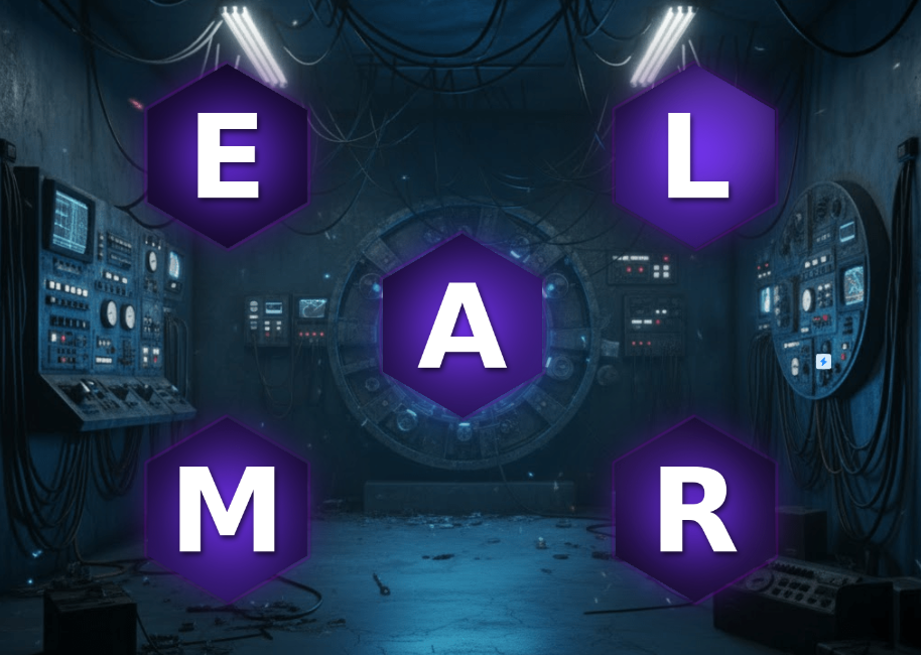
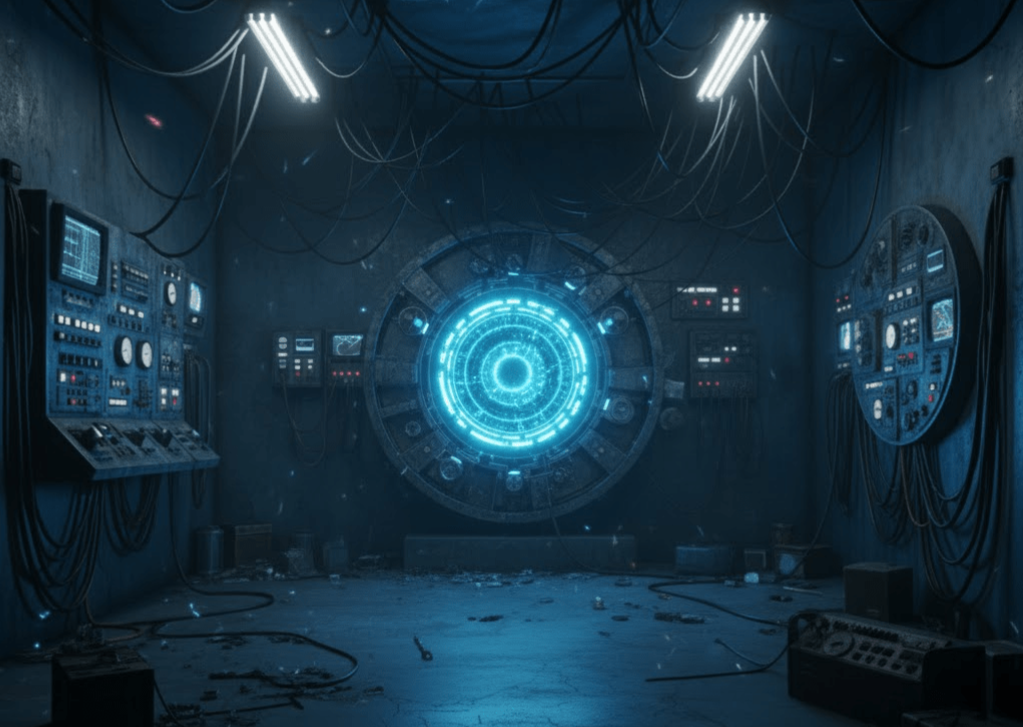
Finished final puzzle room #162

diff --git a/escaperoom/src/main/java/controllers/FinalPuzzleController.java b/escaperoom/src/main/java/controllers/FinalPuzzleController.java
@@ -2,52 +2,176 @@ package controllers;
 
 import javafx.animation.FadeTransition;
 import javafx.fxml.FXML;
+import javafx.scene.image.Image;
 import javafx.scene.image.ImageView;
 import javafx.scene.input.MouseEvent;
 import javafx.scene.layout.AnchorPane;
 import javafx.scene.text.TextFlow;
+import javafx.scene.control.Label;
+import javafx.scene.text.Font;
 import javafx.util.Duration;
+import java.util.HashMap;
+import java.util.Map;
 
 public class FinalPuzzleController {
 
+    @FXML private ImageView bgImage;
     @FXML private ImageView FPHintIcon;
     @FXML private AnchorPane hintPane;
     @FXML private TextFlow hintBottomFlow;
 
+    @FXML private ImageView UnclickedR;
+    @FXML private ImageView UnclickedE;
+    @FXML private ImageView UnclickedA;
+    @FXML private ImageView UnclickedL;
+    @FXML private ImageView UnclickedM;
+
+    @FXML private ImageView RealmImage;
+
+    @FXML private AnchorPane monitorPane;
+    @FXML private Label missionLabel;
+    @FXML private ImageView exitButton;
+
+    private final String[] order = {"UnclickedR","UnclickedE","UnclickedA","UnclickedL","UnclickedM"};
+    private int index = 0;
+
+    private final Map<String,String> clickedMap = new HashMap<>();
+    private final Map<String,String> unclickedMap = new HashMap<>();
+
     @FXML
     private void initialize() {
-        javafx.scene.text.Font.loadFont(getClass().getResourceAsStream("/fonts/Storm Gust.ttf"), 36);
-        if (hintPane != null) hintPane.setVisible(false);
-        if (hintBottomFlow != null) {
-            hintBottomFlow.setVisible(false);
-            hintBottomFlow.setOpacity(0.0);
+
+        Font.loadFont(getClass().getResourceAsStream("/fonts/Storm Gust.ttf"), 42);
+
+        clickedMap.put("UnclickedR","/images/ClickedR.png");
+        clickedMap.put("UnclickedE","/images/ClickedE.png");
+        clickedMap.put("UnclickedA","/images/ClickedA.png");
+        clickedMap.put("UnclickedL","/images/ClickedL.png");
+        clickedMap.put("UnclickedM","/images/ClickedM.png");
+
+        unclickedMap.put("UnclickedR","/images/UnclickedR.png");
+        unclickedMap.put("UnclickedE","/images/UnclickedE.png");
+        unclickedMap.put("UnclickedA","/images/UnclickedA.png");
+        unclickedMap.put("UnclickedL","/images/UnclickedL.png");
+        unclickedMap.put("UnclickedM","/images/UnclickedM.png");
+
+        hintBottomFlow.setVisible(false);
+        hintBottomFlow.setOpacity(0.0);
+
+        monitorPane.setVisible(false);
+        monitorPane.setManaged(false);
+
+        RealmImage.setVisible(false);
+
+        AnchorPane parent = (AnchorPane) bgImage.getParent();
+        bgImage.fitWidthProperty().bind(parent.widthProperty());
+        bgImage.fitHeightProperty().bind(parent.heightProperty());
+        bgImage.setPreserveRatio(false);
+    }
+
+    @FXML
+    private void onLetterClicked(MouseEvent event) {
+        ImageView iv = (ImageView) event.getSource();
+        String id = iv.getId();
+
+        if (order[index].equals(id)) {
+            iv.setImage(new Image(getClass().getResourceAsStream(clickedMap.get(id))));
+            iv.setDisable(true);
+            index++;
+            if (index == order.length)
+                onComplete();
+            return;
         }
-        if (FPHintIcon != null) FPHintIcon.setFocusTraversable(false);
+        resetAll();
+    }
+
+    private void resetAll() {
+        setImage(UnclickedR, unclickedMap.get("UnclickedR"));
+        setImage(UnclickedE, unclickedMap.get("UnclickedE"));
+        setImage(UnclickedA, unclickedMap.get("UnclickedA"));
+        setImage(UnclickedL, unclickedMap.get("UnclickedL"));
+        setImage(UnclickedM, unclickedMap.get("UnclickedM"));
+
+        UnclickedR.setDisable(false);
+        UnclickedE.setDisable(false);
+        UnclickedA.setDisable(false);
+        UnclickedL.setDisable(false);
+        UnclickedM.setDisable(false);
+
+        monitorPane.setVisible(false);
+        monitorPane.setManaged(false);
+        monitorPane.setOpacity(1.0);
+
+        RealmImage.setVisible(false);
+
+        index = 0;
+    }
+
+    private void setImage(ImageView iv, String path) {
+        iv.setImage(new Image(getClass().getResourceAsStream(path)));
+    }
+
+    private void onComplete() {
+        RealmImage.setVisible(true);
+    }
+
+    @FXML
+    private void onRealmClicked(MouseEvent event) {
+        AnchorPane parent = (AnchorPane) monitorPane.getParent();
+        double parentH = parent.getHeight();
+        double paneH = monitorPane.getPrefHeight() > 0 ? monitorPane.getPrefHeight() : 700.0;
+        double finalY = (parentH - paneH) / 2.0;
+
+        monitorPane.setManaged(false);
+        monitorPane.setVisible(true);
+        monitorPane.setLayoutY(finalY);
+        monitorPane.setOpacity(0.0);
+
+        FadeTransition paneFade = new FadeTransition(Duration.millis(600), monitorPane);
+        paneFade.setFromValue(0.0);
+        paneFade.setToValue(1.0);
+        paneFade.setOnFinished(e -> monitorPane.setManaged(true));
+        paneFade.play();
+
+        missionLabel.setOpacity(0.0);
+        FadeTransition ft = new FadeTransition(Duration.millis(700), missionLabel);
+        ft.setFromValue(0.0);
+        ft.setToValue(1.0);
+        ft.setDelay(Duration.millis(200));
+        ft.play();
+    }
+
+    @FXML
+    private void hideMonitor(MouseEvent event) {
+        FadeTransition paneFade = new FadeTransition(Duration.millis(400), monitorPane);
+        paneFade.setFromValue(monitorPane.getOpacity());
+        paneFade.setToValue(0.0);
+        paneFade.setOnFinished(e -> {
+            monitorPane.setVisible(false);
+            monitorPane.setManaged(false);
+            monitorPane.setOpacity(1.0);
+        });
+        paneFade.play();
     }
 
     @FXML
     private void showHint(MouseEvent event) {
-        if (FPHintIcon != null) FPHintIcon.setVisible(false);
-        if (hintPane != null) hintPane.setVisible(false);
-        if (hintBottomFlow != null) {
-            hintBottomFlow.setOpacity(0.0);
-            hintBottomFlow.setVisible(true);
-            FadeTransition ft = new FadeTransition(Duration.millis(450), hintBottomFlow);
-            ft.setFromValue(0.0);
-            ft.setToValue(1.0);
-            ft.play();
-        }
+        hintBottomFlow.setOpacity(0.0);
+        hintBottomFlow.setVisible(true);
+        FadeTransition ft = new FadeTransition(Duration.millis(450), hintBottomFlow);
+        ft.setFromValue(0.0);
+        ft.setToValue(1.0);
+        ft.play();
+        FPHintIcon.setVisible(false);
     }
 
     @FXML
     private void hideHint(MouseEvent event) {
-        if (hintBottomFlow != null && hintBottomFlow.isVisible()) {
-            FadeTransition ft = new FadeTransition(Duration.millis(300), hintBottomFlow);
-            ft.setFromValue(hintBottomFlow.getOpacity());
-            ft.setToValue(0.0);
-            ft.setOnFinished(e -> hintBottomFlow.setVisible(false));
-            ft.play();
-        }
-        if (FPHintIcon != null) FPHintIcon.setVisible(true);
+        FadeTransition ft = new FadeTransition(Duration.millis(300), hintBottomFlow);
+        ft.setFromValue(hintBottomFlow.getOpacity());
+        ft.setToValue(0.0);
+        ft.setOnFinished(e -> hintBottomFlow.setVisible(false));
+        ft.play();
+        FPHintIcon.setVisible(true);
     }
 }
